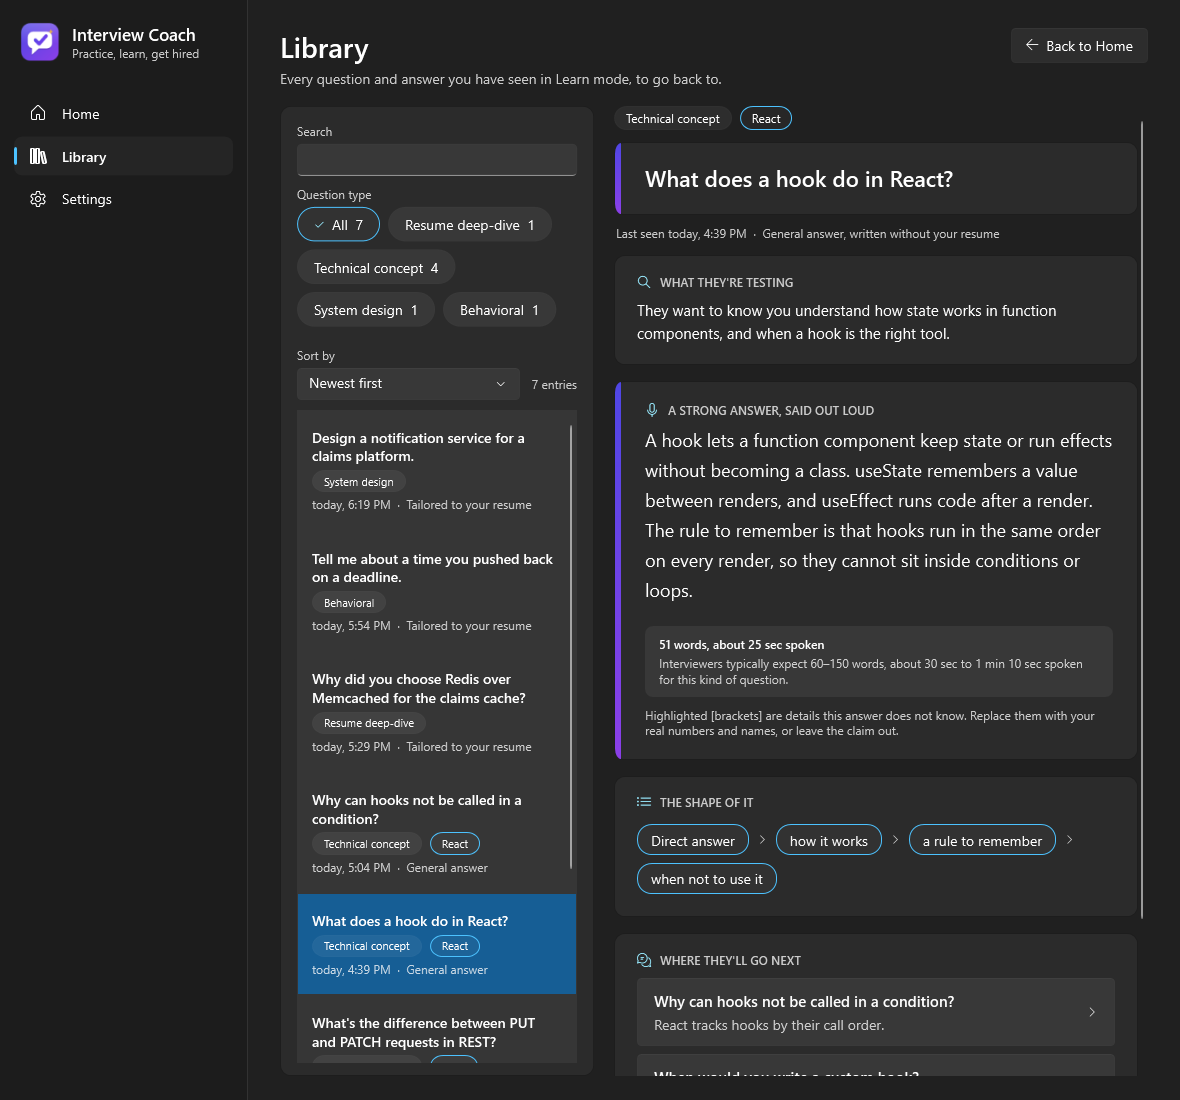
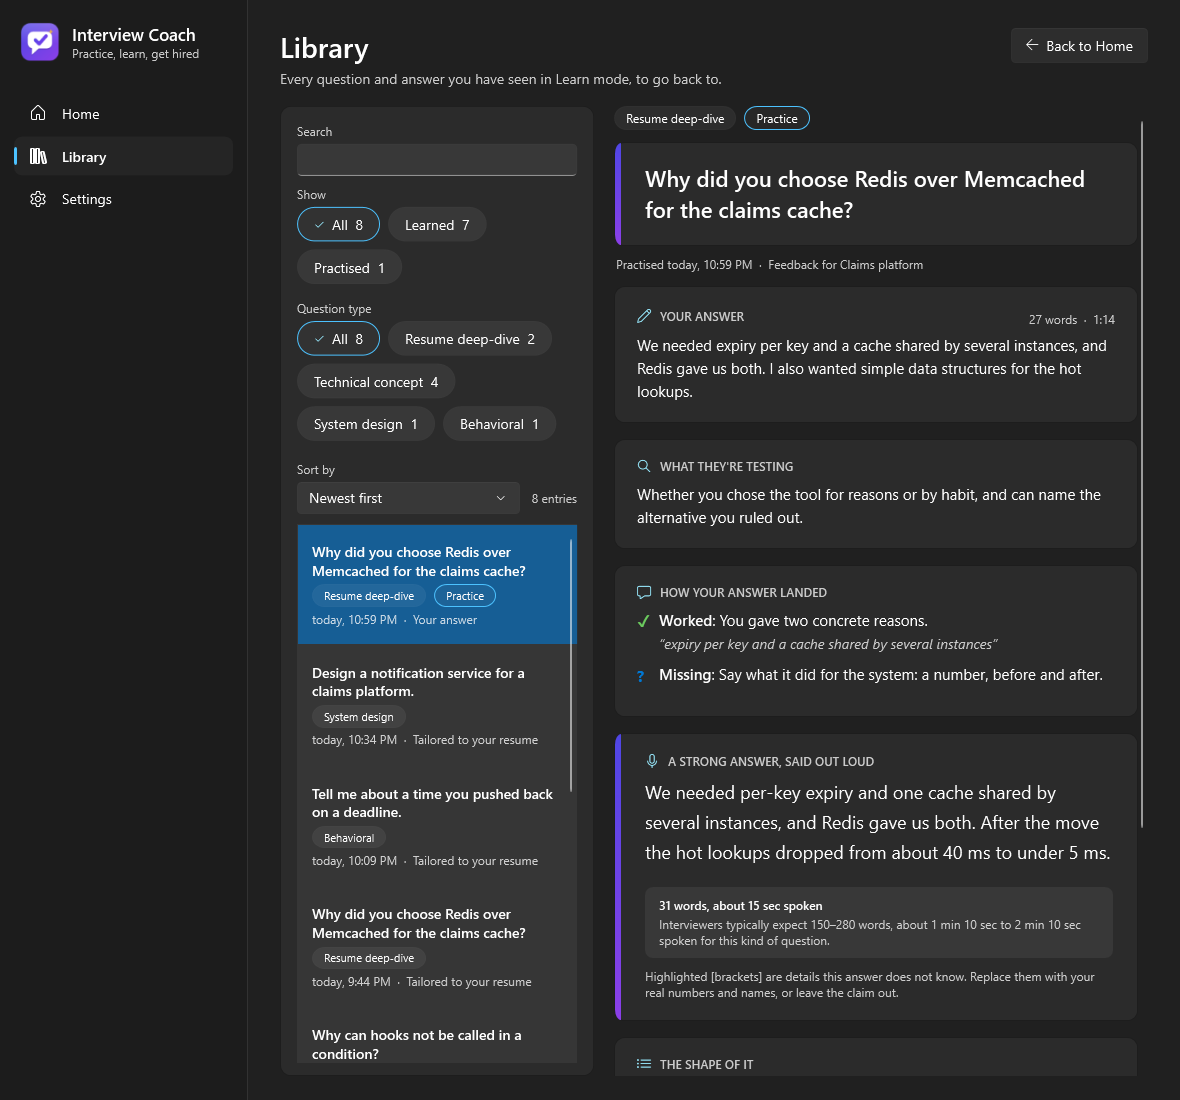
docs: Practice answers in the Library, and the second Practice log
SPEC section 14 and the handoff (section 21) record the second Practice log (the unchanged retry, the string null as a quote, what worked), the PracticeAttempts design and the new Library behaviour. README and screenshots updated; 725 tests.

diff --git a/README.md b/README.md
@@ -12,7 +12,7 @@
 <p align="center">
   <img alt=".NET 10" src="https://img.shields.io/badge/.NET-10-512BD4">
   <img alt="WPF" src="https://img.shields.io/badge/UI-WPF%20%28MVVM%29-0078D4">
-  <img alt="Tests" src="https://img.shields.io/badge/tests-670%20passing-2EA043">
+  <img alt="Tests" src="https://img.shields.io/badge/tests-725%20passing-2EA043">
   <img alt="Platform" src="https://img.shields.io/badge/platform-Windows%2010%2F11-lightgrey">
   <img alt="Status" src="https://img.shields.io/badge/status-Learn%20mode%20complete-blue">
 </p>
@@ -64,7 +64,7 @@ Things that make it more than a question generator:
 | **Saved technical questions** | Technical-concept questions and their general answers are saved per technology and seniority, so repeats cost nothing and survive edits to your resume. When a technology runs out of saved questions the model writes ten common ones in a single call (most common first, spread over different areas, mixed phrasing) instead of one at a time. |
 | **Questions spread across your resume** | Resume questions take turns between your employers and projects (the least used first, then a different highlight each time) instead of always asking about the current job, and each starts with a different word. A question that repeats an earlier one in other words is sent back once. |
 | **Practice (typed)** | Answer a question yourself, with a live word count and an answer timer, then get feedback that quotes your own words, what the interviewer is testing, a strong answer and a delivery comment. Try again passes your last answer to the coach so it can say what changed; follow-ups become the next question. |
-| **Library (Revisit)** | Every question and answer you see is kept, so you can go back to it: filter by question type, search, sort, reopen the full answer, remove an entry. |
+| **Library (Revisit)** | Every question you learn and every answer you practise is kept, so you can go back to it: filter by Learned or Practised and by question type, search (including your own words), sort, reopen the full answer with your feedback, remove an entry. |
 | **Tailor to my resume** | Turn any general answer into one built from your own experience, on demand. |
 | **Answer length control** | Short, Medium, Long or a custom word count. By default the model aims for the same range the screen shows. |
 | **Interviewer-style phrasing** | Technical questions are short and direct ("What's the difference between checked and unchecked exceptions?"), not essay prompts. |
@@ -224,16 +224,17 @@ you see the error with **Retry** rather than a silent substitute.
 
 ### Library (Revisit)
 
-Every question and answer Learn mode shows is kept, so you can come back to it. Open it from the **Revisit** card next to Practice on Home,
+Every question and answer Learn mode shows, and every answer you give in Practice with its feedback, is kept, so you can come back to it. Open it from the **Revisit** card next to Practice on Home,
 or from **Library** in the sidebar.
 
+- **Filter by kind** (once you have practised): All, Learned or Practised, with a count on each.
 - **Filter by question type.** Chips for All and for each type you have seen, with a count on each.
 - **Search** the question, the technology, the question type and the answer text (every word must match).
 - **Sort** by newest, oldest, question (A to Z) or question type.
-- **Open an entry** to read its full answer again: what they are testing, the answer, its shape and the follow-ups. A follow-up you opened
+- **Open an entry** to read it again: what they are testing, the answer, its shape and the follow-ups. For a practice answer you also see what you wrote and the feedback on it (what worked, what to fix, what was missing, with your quoted words). A follow-up you opened
   before opens its own saved answer; one you never opened says so.
 - **Remove from library** deletes an entry (it is added back if you see that question again).
-- The same question seen again is one entry (it moves to the top and counts how many times you saw it). A general answer and one tailored to
+- A learned question seen again is one entry (it moves to the top and counts how many times you saw it). Every practice answer is its own entry, so you can see how a retry improved. A general answer and one tailored to
   your resume are separate entries.
 - Questions you already had saved as technical questions are carried over the first time the new version starts, so the library is not empty.
   Anything seen before that and not saved cannot be recovered.
@@ -254,7 +255,7 @@ click **Try it myself** in Learn mode to practise the question you are looking a
    puts it back in the box), click a **follow-up** to answer it (the coach sees the earlier questions and answers), or **Next question**.
 5. If the coach call fails, your answer stays on screen: **Retry** sends it again, or **Edit my answer** reopens the box.
 
-Practice attempts are not saved to the Library yet; the Library shows what Learn mode showed.
+Every answer you submit is kept in the Library with its feedback (see below), including each try and each follow-up.
 
 ### In a session
 
@@ -381,21 +382,21 @@ on its OpenRouter page if that matters to you. The model list for the OpenRouter
 
 **Key fallbacks** when a Settings field is empty: `ANTHROPIC_API_KEY`, `OPENAI_API_KEY`, `OPENROUTER_API_KEY`, `AZURE_SPEECH_KEY`, `AZURE_SPEECH_REGION`.
 
-**Database tables:** `Profiles`, `TechQuestions`, `TechAnswers`, `JdTechnologies`, `ResumeTopics` (employers and projects read from a resume), `LearnHistory` (the Library).
+**Database tables:** `Profiles`, `TechQuestions`, `TechAnswers`, `JdTechnologies`, `ResumeTopics` (employers and projects read from a resume), `LearnHistory` and `PracticeAttempts` (the Library).
 
 ## Testing
 
 ```bash
-dotnet test                                     # all 670 tests
+dotnet test                                     # all 725 tests
 dotnet test tests/InterviewCoach.Core.Tests     # one project
 dotnet build InterviewCoach.sln -c Release      # use this if the Debug exe is running (it locks its DLLs)
 ```
 
 | Project | Tests | Covers |
 |---|---|---|
-| `InterviewCoach.Core.Tests` | 293 | Prompt rendering, engine behaviour, the bank, answer lengths, question types, text helpers, role type |
-| `InterviewCoach.Infrastructure.Tests` | 159 | JSON parsing, LLM service (retry, cache split, options), settings (DPAPI round trip, no plaintext), SQLite repositories on real files, file extractors, prompt guards, Demo-mode isolation |
-| `InterviewCoach.App.Tests` | 218 | View models and **real WPF views** on a shared STA dispatcher; fails on any binding error |
+| `InterviewCoach.Core.Tests` | 319 | Prompt rendering, engine behaviour, the bank, answer lengths, question types, text helpers, role type |
+| `InterviewCoach.Infrastructure.Tests` | 167 | JSON parsing, LLM service (retry, cache split, options), settings (DPAPI round trip, no plaintext), SQLite repositories on real files, file extractors, prompt guards, Demo-mode isolation |
+| `InterviewCoach.App.Tests` | 239 | View models and **real WPF views** on a shared STA dispatcher; fails on any binding error |
 
 Test names are sentences that describe behaviour. Scripted test doubles (`ScriptedLlmService`, `BankScript`) let tests control exactly
 what the model "says", including delays and failures.

diff --git a/docs/HANDOFF.md b/docs/HANDOFF.md
@@ -20,7 +20,7 @@ every change made after the spec was written and overrides the spec where they d
 | 1 Skeleton: solution, DI host, settings with DPAPI keys, demo mode, prompts, LLM service, Test connection | Done |
 | 2 Profiles: CRUD, JD and resume paste or file load (PDF, DOCX, TXT, MD), SQLite and migrations | Done |
 | 3 Learn mode (text): question generator, coach, coach cards | Done |
-| 4 Practice mode (typed): composer, submit, coach with the answer, retry with comparison, follow-ups | Done (attempts are not saved yet) |
+| 4 Practice mode (typed): composer, submit, coach with the answer, retry with comparison, follow-ups | Done (attempts are saved to the Library) |
 | 5 Voice: speech to text, text to speech (Azure, OpenAI, Windows), mic in composer, barge-in, timer, auto-listen | **Not started** (fakes and settings fields exist) |
 | 6 Mock Interview: planner, interviewer loop, thread building, parallel coaching, debrief, Markdown export | **Not started** (prompts `planner.md`, `interviewer.md`, `debrief.md` exist, unused) |
 | 7 History and polish | **Not started** |
@@ -31,7 +31,7 @@ background preparation of the next question; the technology bank (saved technica
 and seniority); By technology with an Other box; interviewer-style question length rules; full-time or contract role type with two
 extra question types; scroll-wheel behaviour on Home; app icon; a full visual redesign.
 
-Test status: **670 tests passing** (Core 293, Infrastructure 159, App 218). The last full verification was done with
+Test status: **725 tests passing** (Core 319, Infrastructure 167, App 239). The last full verification was done with
 `-c Release` because the user had the Debug build running (see section 2).
 
 **Version control.** The folder is a git repository (branch `main`). History is written to be read; see "Commit conventions" in `README.md`.
@@ -315,7 +315,7 @@ cache read about 0.1x, cache write about 1.25x; the user's balance drop was cons
 
 ## 10. Tests
 
-670 tests: Core 293, Infrastructure 159, App 218.
+725 tests: Core 319, Infrastructure 167, App 239.
 
 - **Core.Tests**: prompt rendering, engine behaviour (`LearnEngineTests`, `LearnEngineBankTests`, `LearnEngineTechnologyTests`,
   `EmploymentTypeTests`), bank service, answer length, question types, text helpers. Helpers in `TestDoubles.cs`:
@@ -333,8 +333,7 @@ cache read about 0.1x, cache write about 1.25x; the user's balance drop was cons
 
 ## 11. Open items and next steps
 
-1. ~~Milestone 4, Practice (typed)~~: done, see section 19. Still open from it: Practice attempts are not saved (no Session, PracticeItem or Attempt
-   tables), so the Library does not show them.
+1. ~~Milestone 4, Practice (typed)~~: done, see sections 19 to 21.
 2. **Milestone 5, Voice**: `ISpeechToText` and `ITextToSpeech` implementations (Azure first, then OpenAI, then Windows offline TTS),
    composer mic with F2, barge-in, auto-listen, silence auto-submit, voice settings with Test mic and Test voice, "Read answer aloud".
    Interfaces, fakes and settings fields already exist.
@@ -669,3 +668,32 @@ happens if you update a column used in a WHERE clause mid-transaction?"), and fo
 three times, "Explain the difference between" once; the limit is three "What's the difference between"). Changes: the batch prompt now says to ask only about things that
 exist in the technology as named, and has a third Too long / Right pair for the denormalize question. A saved question that is wrong stays in the bank until the
 user clears it in Settings.
+
+---
+
+## 21. Second Practice log, and saving Practice to the Library
+
+**The second Practice log** (2 October 2026, SQL Server; four answers including one Try again and one follow-up). Findings:
+
+- The delivery fix worked: `delivery` was null for every typed answer.
+- **Try again with an unchanged answer.** The retry was word for word the first answer (123 words). It was sent, and the coach did not say nothing had changed (it ignored
+  the rule that the first point is about what changed). Now `SubmitAsync` returns `SubmitResult.Unchanged` for an identical answer on a retry (whitespace and case ignored,
+  retries only) and the box explains; nothing is sent. The first-point-about-change behaviour is therefore still **not observed on a real changed retry**.
+- **Follow-up transcript worked:** the prompt carried "Interviewer: ... / You: ..." for the earlier question, and the coach judged the one-line SQL answer correctly.
+- **The string "null" as a quote.** Three feedback points had `"quote": "null"` (the string), not a JSON null; shown as is it would read as something the candidate said.
+  `CoachText.CleanOptional` now maps null, none, n/a, nil, undefined and empty text to nothing; `ForPractice` applies it to every quote and the delivery, and
+  `CoachOutputViewModel` applies it again.
+- All other quotes were grounded (verbatim or elided fragments of the answer). Replies were 5.8 to 7.7 s with 790 to 950 output tokens.
+
+**Practice answers in the Library.** New table `PracticeAttempts` (migration `AddPracticeAttempts`), `IPracticeHistory` with `PracticeHistoryRepository`,
+`InMemoryPracticeHistory` and `RoutingPracticeHistory` (Demo mode), `PracticeRecord` (Core). `PracticeEngine` records through `RecordAttemptAsync` (best effort,
+exceptions swallowed) once the feedback is on screen, so every attempt is a row and nothing is kept for a failed call or an unchanged answer. It is a separate table from
+`LearnHistory` on purpose: a learned question is one upserted entry per question and answer kind, a practice answer is always a new row, and the existing library keys and
+the carry-over migration stay untouched.
+
+`LibraryViewModel` now works on `LibraryItem` (a neutral record built from either source; `Key` is "L12" or "P7" because the two tables number separately). New: `KindFilters`
+(All, Learned, Practised; shown by `HasKindFilter` only once something was practised), a Practice tag, a "Your answer" detail card (`DetailAnswer`, `DetailAnswerMeta`), the
+feedback cards for practice entries (the detail uses `ForPractice()`, learned entries still use `ForLearning()`), search over the answer text, and delete routed to the right
+repository. Follow-up lookup picks the saved follow-up of the same kind as the open entry, then the newest, from either table. `LibraryViewModel` takes `IPracticeHistory`
+as an optional fourth constructor argument; without it the library behaves as before. Not done: no export, no "practise this question again" button from the library, no chart
+of how retries improved.

diff --git a/SPEC.md b/SPEC.md
@@ -835,3 +835,4 @@ The sections above are the original spec. These later decisions override them wh
 - **Near-duplicate questions.** Model-written questions are compared with everything already asked in the session by topic words (filler such as "what", "how", "would", "between", "difference" ignored): two questions are the same when they share at least four topic words that make up at least half of the shorter one's. A repeat is sent back once with the earlier question and "That is too close to a question you already asked. Give a different one, about a different topic."; a second repeat is accepted. The same test filters the saved-question batches. Questions from the saved bank still use the exact-match check only.
 - **Practice mode (typed), milestone 4.** Practice is a mode card on Home that can be chosen next to Learn (Mock Interview is still "Coming soon"); the same role type, question types, technologies and answer length apply, and the button reads "Start Practice". The screen follows spec 4.5 with the typed composer of 4.6: the question, an always-editable answer box with a live word count, an answer timer that starts at the first keystroke (amber past 2:30 and red past 3:30 for behavioral and resume deep-dive questions only), a Submit button and Ctrl+Enter, and the message "Say or type something first. 'I don't know' is a fine answer too." for an empty submit (an empty or spaces-only answer is never sent). No Coach call can happen before Submit: `PracticeEngine` makes the call only from submit or the retry of a failed submit, refuses a submit when no question is waiting (including a second click while the Coach reads), and tests pin this. The Coach is called with `MODE practice`, the answer, `INPUT_METHOD typed`, the timer's seconds and the word count. After feedback: **Try again** (same question, the latest answer goes in as `PREVIOUS_ATTEMPT`, never an older try; "Start from my last answer" refills the box), a click on a **follow-up** (it becomes the next question without a model call; the questions and the candidate's answers so far go into `TRANSCRIPT` as "Interviewer: ... / You: ..." lines), and **Next question** (clean slate). If the Coach call fails the answer is kept and shown; Retry sends it again, "Edit my answer" reopens the box, and neither writes a new question. Feedback and the delivery comment are shown (unlike Learn) and the model answer loses an opening warm-up. Practice questions come from the same `QuestionPicker` as Learn (saved technical questions, batches, the spread over employers, the near-duplicate check). Learn mode gains a "Try it myself" button that opens Practice on the question on screen, without showing its model answer, and the next question uses that session's filter. Practice attempts are not stored yet (no Session, PracticeItem or Attempt tables); that belongs with History.
 - **Practice: typed answers report no duration to the Coach.** The answer timer still runs and is shown (words and time on the "Your answer" card), but for a typed answer `DURATION_SECONDS` is sent as "(none)": it is typing time, not speaking time, and the Coach had read it as pace. Only spoken answers (voice, mixed) report a duration. `coach.md` now says that a typed answer gets no comment on pace or seconds, only a one-sentence length comment in words and spoken time (about 130 words a minute) when the answer is clearly far too short or too long. The batch prompt also says to ask only about things that exist in the technology as named.
+- **Practice answers are saved to the Library; two Practice fixes.** Every answer sent in Practice is kept with its feedback (table `PracticeAttempts`, one row per attempt: question, type, technology, level, profile, attempt number, the answer text, input method, seconds, word count, the Coach output as JSON, time), recorded once the feedback is on screen, so a failed Coach call keeps nothing until a retry succeeds. Recording is best effort. The Library lists learned questions and practice answers together; once something has been practised, "Show" chips (All, Learned, Practised, with counts) join the question-type chips; a practice entry carries a "Practice" tag, says "Your answer" (and the attempt number from the second try), opens with a "Your answer" card showing what was written, then the feedback cards, and search also looks in the answer text. Removing a practice answer removes only that answer. A follow-up button opens the follow-up's saved answer from either mode (preferring the same kind as the open entry), or says it was never opened in Learn or Practice. In Practice, submitting an answer identical to the last one on a try again (ignoring spacing and case) is not sent: the box says "That is the same as your last answer. Change something, then submit, so the feedback can say what improved." And a feedback quote or delivery comment that is the word null, none or n/a is treated as empty (the coach had written the string null as a quote three times).

diff --git a/CLAUDE.md b/CLAUDE.md
@@ -8,7 +8,7 @@ architecture, decisions, measurements and traps. The code and tests are the trut
 
 ```
 dotnet run --project src/InterviewCoach.App
-dotnet test                                    # all tests (670 at last count)
+dotnet test                                    # all tests (725 at last count)
 dotnet build InterviewCoach.sln -c Release     # use -c Release when the user has the Debug exe running
 ```
 
@@ -43,4 +43,4 @@ Prompts are files in `src/InterviewCoach.App/Prompts/`.
 ## Current status
 
 Milestones 1 to 4 are done (4 is Practice, typed). 5 (voice), 6 (Mock Interview) and 7 (history and polish; the Library of Learn questions is done) are not started.
-Learn and Practice share `QuestionPicker`; Practice attempts are not saved yet.
+Learn and Practice share `QuestionPicker`; both record to the Library (`LearnHistory`, `PracticeAttempts`).
